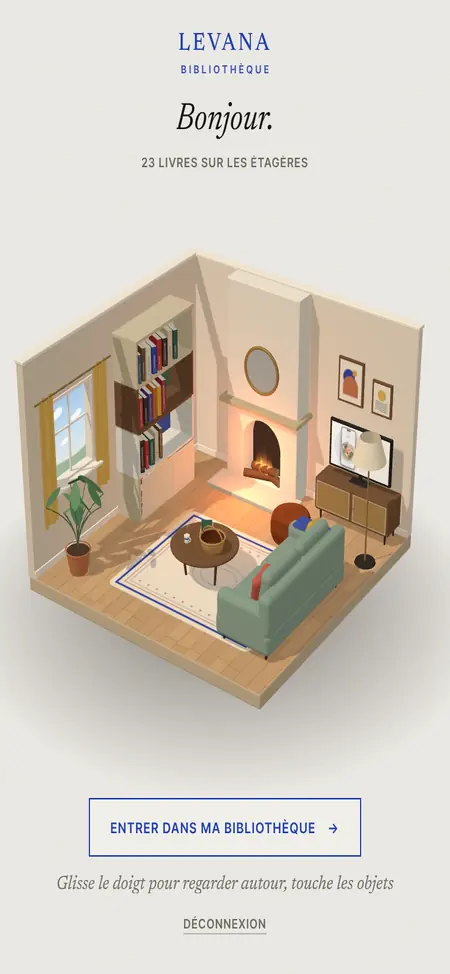
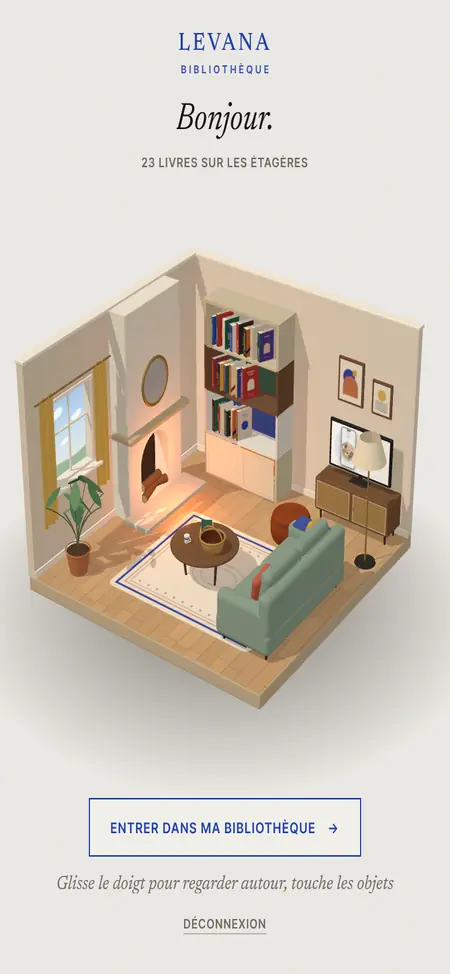
Glisser-déposer précis, livres plus nets, salon immobile pendant la caméra
- Le livre se pose exactement où on le lâche (avant, depuis « une étagère =
  une rangée », il partait toujours en tête de l'étagère).
- Netteté : couvertures Google en grand format (600 × 900, la vignette en
  secours), tranches dessinées avec 1,5 × plus de pixels, filtrage 16×
  pour les livres vus de biais, dessin en 3× sur les écrans 3× ; la
  qualité ne baisse plus dès l'arrivée, d'abord les ombres, jamais sous 1,5×.
- Salon : plus rien ne s'efface ni ne change de lumière pendant le zoom ou
  le dézoom ; la bibliothèque passe sur le mur du fond (rien devant sur le
  trajet de la caméra), la cheminée sur le mur de gauche ; un fondu court
  enchaîne à la fin. Au retour, la bibliothèque remonte d'abord en haut.
- Tuto de la télé refait avec ce salon.

Claude-Session: https://claude.ai/code/session_01Tg9JuQWn64WBjX1JtYF8aa

Changed region(s): [[0.2178, 0.2772, 0.7156, 0.5852]]

diff --git a/src/three/LivingRoomScene.js b/src/three/LivingRoomScene.js
@@ -25,8 +25,8 @@ const EL_MIN = 0.3, EL_MAX = 0.78, EL0 = 0.5
 const TARGET0 = new THREE.Vector3(0, 0.95, 0)
 
 // emplacements (repère de la pièce)
-const BOOKCASE = { x: -R + 0.2, z: -0.55, w: 1.62, h: 2.18, d: 0.38 }
-const FIRE = { x: -0.5, w: 1.3, d: 0.3 }
+const BOOKCASE = { x: -1.05, z: -R + 0.2, w: 1.62, h: 2.18, d: 0.38 }   // mur du fond, à gauche (face à la caméra)
+const FIRE = { z: -0.5, w: 1.3, d: 0.3 }                               // mur de gauche
 const TV = { x: 1.22 }
 const SOFA = { x: 1.34, z: 0.5 }
 const TABLE = { x: -0.02, z: 0.48 }
@@ -449,8 +449,7 @@ export class LivingRoomScene {
   // ---- Bibliothèque ----------------------------------------------------------------------
   _buildBookcase() {
     const grp = new THREE.Group()
-    grp.position.set(BOOKCASE.x, 0, BOOKCASE.z)
-    grp.rotation.y = Math.PI / 2      // face à la pièce (+x)
+    grp.position.set(BOOKCASE.x, 0, BOOKCASE.z)   // face à la pièce (+z)
     this.room.add(grp)
     this.bookcase = grp
     this.bookcaseInner = new THREE.Group()
@@ -593,7 +592,8 @@ export class LivingRoomScene {
   // ---- Cheminée ---------------------------------------------------------------------------
   _buildFireplace() {
     const grp = new THREE.Group()
-    grp.position.set(FIRE.x, 0, -R)
+    grp.position.set(-R, 0, FIRE.z)
+    grp.rotation.y = Math.PI / 2       // contre le mur de gauche, face à la pièce (+x)
     this.room.add(grp)
     const W = FIRE.w, D = FIRE.d
     const aw = 0.74, ah = 0.5, ay = 0.1, ar = aw / 2
@@ -650,7 +650,7 @@ export class LivingRoomScene {
     })
     // lueur du feu
     this.fireLight = new THREE.PointLight(0xff8a3c, 2, 5.5, 1.6)
-    this.fireLight.position.set(FIRE.x, 0.55, -R + D + 0.45)
+    this.fireLight.position.set(-R + D + 0.45, 0.55, FIRE.z)
     this.scene.add(this.fireLight)
     // déco de la tablette : miroir rond, bougies, petit vase
     const mirror = new THREE.Mesh(this._geo(new THREE.CircleGeometry(0.3, 48)), this._mat('#C9D3D8', { roughness: 0.15, metalness: 0.3 }))
@@ -1263,10 +1263,10 @@ export class LivingRoomScene {
     const { CW } = lib.layout
     const totalH = lib.rowCount * (RH + PT) + PT
     const sc = Math.min(2.45 / (totalH + 0.1), 2.1 / (CW + 2 * ST + 0.06))
-    const hw = (CW / 2 + ST + 0.04) * sc
+    const hw = (CW / 2 + ST + 0.04) * sc     // demi-largeur (sur x)
     const g = new THREE.Group()
-    g.position.set(-R + 0.012 + (SD / 2 + 0.02) * sc, 0, clamp(-0.6, -1.92 + hw, 0.32 - hw))
-    g.rotation.y = Math.PI / 2
+    // contre le mur du fond, entre le coin gauche et le meuble télé
+    g.position.set(clamp(-0.8, -1.92 + hw, 0.45 - hw), 0, -R + 0.012 + (SD / 2 + 0.02) * sc)
     g.scale.setScalar(sc)
     g.add(copy)
     this.room.add(g)
@@ -1453,10 +1453,6 @@ export class LivingRoomScene {
     // on part de la vue exacte où l'on était dans la bibliothèque…
     this.fly = { dir: 'out', start: { az: AZ0, el: EL0, dist: this.dist, target: TARGET0.clone() }, t: 0, dur: 1.6, libPose: this._libraryPose() }
     this._stepFly(0)
-    // …puis la bibliothèque remonte en haut : dans le salon, les étagères du haut s'ouvrent,
-    // celles du bas se ferment (c'est par le haut qu'on entrera la prochaine fois)
-    lib.setZoom(true)
-    lib.scrollToTop()
   }
 
   /** La bibliothèque se présente toujours par le haut, vue de près. */
@@ -1487,9 +1483,6 @@ export class LivingRoomScene {
     const a = this._salonPose(f.start.az, f.start.el, f.start.dist, f.start.target)
     const b = f.libPose || this._libraryPose()
     this._applyPose(a, b, ease(p))
-    this._setFade(sstep(0.06, 0.55, p))
-    this.mix = sstep(0.2, 0.8, p)
-    this._setClip(sstep(0.62, 1, p), b.R, b.S)
     this.shadowDirty = Math.max(this.shadowDirty, 1)
     if (k >= 1) {
       if (f.dir === 'in') { if (!f.called) { f.called = true; f.onDone?.() } return }
@@ -1497,15 +1490,18 @@ export class LivingRoomScene {
       this.fly = null
       this.az.snap(AZ0); this.el.snap(EL0); this.target.copy(TARGET0)
       this.camera.updateProjectionMatrix()
-      this._setFade(0); this.mix = 0; this._setClip(0)
       this.idleAt = this.time
+      // la caméra est arrêtée : la bibliothèque remonte en haut (les étagères du haut s'ouvrent,
+      // celles du bas se ferment : c'est par le haut qu'on entrera la prochaine fois)
+      const lib = this.mirror?.lib
+      if (lib && !lib.disposed) { lib.setZoom(true); lib.scrollToTop() }
     }
   }
 
   /** Vue rapprochée (secours, quand la bibliothèque n'est pas encore là). */
   _bookcaseView() {
-    const center = new THREE.Vector3(BOOKCASE.x + BOOKCASE.d / 2, 1.12, BOOKCASE.z)
-    return { target: center, az: Math.PI / 2, el: 0.05, dist: 2.3 }
+    const center = new THREE.Vector3(BOOKCASE.x, 1.12, BOOKCASE.z + BOOKCASE.d / 2)
+    return { target: center, az: 0.2, el: 0.05, dist: 2.3 }
   }
 
   _applyFly(k) {

diff --git a/src/three/BookcaseScene.js b/src/three/BookcaseScene.js
@@ -71,12 +71,14 @@ export class BookcaseScene {
     this.cb = cb
     this.container = container
     this.renderer = new THREE.WebGLRenderer({ antialias: true, alpha: true, powerPreference: 'high-performance' })
-    this.renderer.setPixelRatio(Math.min(window.devicePixelRatio || 1, 2))
+    // écrans 3× (iPhone) : dessin en 3× ; la qualité ne baisse que si le téléphone peine vraiment
+    this.dpr = Math.min(window.devicePixelRatio || 1, 3)
+    this.renderer.setPixelRatio(this.dpr)
     this.renderer.outputColorSpace = THREE.SRGBColorSpace
     this.renderer.shadowMap.enabled = true
     this.renderer.shadowMap.type = THREE.PCFSoftShadowMap
     this.renderer.localClippingEnabled = true
-    setAnisotropy(Math.min(8, this.renderer.capabilities.getMaxAnisotropy()))
+    setAnisotropy(Math.min(16, this.renderer.capabilities.getMaxAnisotropy()))   // livres vus de biais : nets
     container.appendChild(this.renderer.domElement)
     noTouchSelect(this.renderer.domElement)
     this.renderer.domElement.className = 'shelf-canvas'
@@ -1105,26 +1107,31 @@ export class BookcaseScene {
    * on réduit d'abord la résolution, puis on simplifie les ombres.
    */
   _adapt(dt) {
-    if (dt <= 0 || dt > 0.25) return
-    this.perf = this.perf || { sum: 0, n: 0, level: 0 }
+    if (dt <= 0 || dt > 0.25) return false
+    this.perf = this.perf || { sum: 0, n: 0, level: 0, seen: 0 }
     const pf = this.perf
+    // on laisse passer l'arrivée (les livres qui se posent) avant de juger
+    if (++pf.seen < 90) return false
     pf.sum += dt; pf.n++
-    if (pf.n < 24) return
+    if (pf.n < 40) return false
     const avg = pf.sum / pf.n
     pf.sum = 0; pf.n = 0
-    if (avg > 0.034 && pf.level === 0) {
+    if (avg <= 0.045) return false
+    if (pf.level === 0) {
+      // d'abord des ombres plus simples (le flou se voit plus que les ombres)
       pf.level = 1
-      this.renderer.setPixelRatio(1)
-      this.renderer.setSize(this.w, this.h, false)
-      return true      // le canevas vient d'être vidé : il faut le redessiner
-    } else if (avg > 0.034 && pf.level === 1) {
-      pf.level = 2
       this.renderer.shadowMap.type = THREE.PCFShadowMap
       this.key.shadow.mapSize.set(1024, 1024)
       this.key.shadow.map?.dispose(); this.key.shadow.map = null
       return true
     }
-    return false
+    // puis la définition, par paliers, sans descendre sous 1,5×
+    const next = this.dpr > 2 ? 2 : this.dpr > 1.5 ? 1.5 : null
+    if (!next) return false
+    this.dpr = next
+    this.renderer.setPixelRatio(next)
+    this.renderer.setSize(this.w, this.h, false)
+    return true      // le canevas vient d'être vidé : il faut le redessiner
   }
 
   /** Étiquettes des planches : positionnées directement (sans repasser par React). */

diff --git a/src/App.jsx b/src/App.jsx
@@ -192,6 +192,19 @@ function Library({ user, onSignOut }) {
   // panier vidé : on referme la rangée
   useEffect(() => { if (!basket.items.length) setGuide(false) }, [basket.items.length])
 
+  // Retour au salon : la bibliothèque remonte d'abord en haut (dans la bibliothèque), puis la
+  // caméra sort par là — rien ne passe devant pendant le trajet
+  const goSalon = useCallback(() => {
+    const sc = bookcaseApi.current?.scene?.()
+    if (!sc?.scroll) { setSalon('back'); return }
+    const atTop = () => Math.abs(sc.scroll.v - sc._clampScroll(Infinity)) < 0.01 && sc.zoom.v > 0.99 && sc.scroll.done && sc.zoom.done
+    if (atTop()) { setSalon('back'); return }
+    sc.setZoom(true); sc.scrollToTop()
+    const t0 = performance.now()
+    const wait = () => (atTop() || performance.now() - t0 > 1400 ? setTimeout(() => setSalon('back'), 120) : requestAnimationFrame(wait))
+    requestAnimationFrame(wait)
+  }, [])
+
   const openGuide = useCallback(() => {
     if (salon) { markSalonSeen(); setSalon(null) }
     setGuide(true)
@@ -233,7 +246,7 @@ function Library({ user, onSignOut }) {
         <Logo />
         <div className="top-right">
           {HAS_WEBGL && (
-            <button type="button" className="lbl box salon-btn" onClick={e => { e.currentTarget.blur(); setSalon('back') }} aria-label="Retour au salon">
+            <button type="button" className="lbl box salon-btn" onClick={e => { e.currentTarget.blur(); goSalon() }} aria-label="Retour au salon">
               <svg width="13" height="12" viewBox="0 0 13 12" aria-hidden="true"><path d="M1 6L6.5 1.2 12 6M2.6 4.8V11h7.8V4.8" stroke="currentColor" fill="none" strokeWidth="1.1" /></svg>
               <span className="salon-btn-l">Salon</span>
             </button>
@@ -301,7 +314,7 @@ function Library({ user, onSignOut }) {
           {findOpen && <div className="find-backdrop" onPointerDown={() => setFindOpen(false)} />}
           <nav className="tabbar" aria-label="Menu">
             {HAS_WEBGL && (
-              <button type="button" className="tab" onClick={() => { setFindOpen(false); setGuide(false); setSalon('back') }}>
+              <button type="button" className="tab" onClick={() => { setFindOpen(false); setGuide(false); goSalon() }}>
                 <svg viewBox="0 0 24 24" aria-hidden="true"><path d="M3.5 11.2L12 4l8.5 7.2M6 9.8V20h12V9.8M10 20v-5.5h4V20" /></svg>
                 <span>Salon</span>
               </button>

diff --git a/src/three/textures.js b/src/three/textures.js
@@ -11,11 +11,13 @@ const cache = new Map()
 let anisotropy = 4
 export function setAnisotropy(n) { anisotropy = n }
 
-function canvasTexture(key, w, h, draw, { repeat = false } = {}) {
+function canvasTexture(key, w, h, draw, { repeat = false, scale = 1 } = {}) {
   if (cache.has(key)) return cache.get(key)
   const c = document.createElement('canvas')
-  c.width = w; c.height = h
-  draw(c.getContext('2d'), w, h)
+  c.width = Math.round(w * scale); c.height = Math.round(h * scale)
+  const ctx = c.getContext('2d')
+  ctx.scale(scale, scale)     // même dessin, plus de pixels (texte des tranches plus net)
+  draw(ctx, w, h)
   const tex = new THREE.CanvasTexture(c)
   tex.colorSpace = THREE.SRGBColorSpace
   tex.anisotropy = anisotropy
@@ -67,7 +69,7 @@ export function spineTexture(book) {
     ctx.strokeRect(w / 2 - 34, h - 160, 68, 56)
     ctx.fillStyle = ink; ctx.font = `italic 500 36px ${SERIF}`; ctx.textAlign = 'center'; ctx.textBaseline = 'middle'
     ctx.fillText(authorInitials(book), w / 2, h - 131)
-  })
+  }, { scale: 1.5 })   // 1,5 × plus de pixels : titre de la tranche net
 }
 
 /** Couverture générée quand l'image réelle n'est pas disponible. */

diff --git a/src/components/LivingRoom.jsx b/src/components/LivingRoom.jsx
@@ -52,7 +52,7 @@ export default function LivingRoom({ books, shelves, basketItems, from, onEntere
       const done = () => cb.current.onEntered?.(typeof next === 'string' ? next : null)
       if (!el?.animate) { done(); return }
       // les deux vues sont identiques : on retire simplement le salon (les menus apparaissent)
-      el.animate([{ opacity: 1 }, { opacity: 0 }], { duration: 220, easing: 'ease-out', fill: 'forwards' }).finished.then(done, done)
+      el.animate([{ opacity: 1 }, { opacity: 0 }], { duration: 380, easing: 'ease-in-out', fill: 'forwards' }).finished.then(done, done)
     })
   }
   cb.current.go = go
@@ -88,7 +88,7 @@ export default function LivingRoom({ books, shelves, basketItems, from, onEntere
     let t
     if (from === 'back') {
       s.arriveFromLibrary()
-      rootRef.current?.animate?.([{ opacity: 0 }, { opacity: 1 }], { duration: 160, easing: 'ease-out' })
+      rootRef.current?.animate?.([{ opacity: 0 }, { opacity: 1 }], { duration: 300, easing: 'ease-in-out' })
       t = setTimeout(() => setGoing(false), 1100)
     }
     return () => { clearTimeout(t); s.dispose(); sceneRef.current = null }

diff --git a/src/lib/covers.js b/src/lib/covers.js
@@ -8,6 +8,16 @@ const rawCover = b => (b?.cover_url || b?.cover || '').replace('http://', 'https
 
 export const relayUrl = src => `/api/cover?url=${encodeURIComponent(src)}`
 
+/**
+ * Version grand format d'une couverture Google Books (les vignettes « zoom=1 » ne font que
+ * ~128 px de large : floues en 3D). Si Google l'ignore, on retombe sur la vignette.
+ */
+export function hiResCover(src) {
+  if (!src || !/books\.google(usercontent)?\.com/.test(src) || /[?&]fife=/.test(src)) return null
+  if (!/\/books\/content|\/books\/publisher/.test(src)) return null
+  return src + (src.includes('?') ? '&' : '?') + 'fife=w600-h900'
+}
+
 export function coverKey(b) {
   const raw = rawCover(b)
   if (raw) return raw
@@ -17,6 +27,8 @@ export function coverKey(b) {
 export function coverCandidates(b) {
   const raw = rawCover(b)
   const out = []
+  const hi = hiResCover(raw)
+  if (hi) out.push(relayUrl(hi))
   if (raw) out.push(relayUrl(raw), raw)
   if (b?.isbn) out.push(`https://covers.openlibrary.org/b/isbn/${b.isbn}-M.jpg?default=false`)
   return out

diff --git a/src/components/Bookcase3D.jsx b/src/components/Bookcase3D.jsx
@@ -30,7 +30,8 @@ function buildRows({ manual, shelves, autoBooks, byId, visible, canEdit, perRow,
       }
       if (!list.length && !canEdit) continue
       const n = Math.max(1, Math.ceil(list.length / perRow))
-      for (let j = 0; j < n; j++) rows.push({ key: `${s.id}:${j}`, shelf: s, start: j * perRow, books: list.slice(j * perRow, (j + 1) * perRow), cont: j > 0 })
+      // (j * Infinity vaut NaN pour j = 0 : une étagère d'une seule rangée commence à 0)
+      for (let j = 0; j < n; j++) rows.push({ key: `${s.id}:${j}`, shelf: s, start: j ? j * perRow : 0, books: n === 1 ? list : list.slice(j * perRow, (j + 1) * perRow), cont: j > 0 })
     }
   } else {
     const n = Math.ceil(autoBooks.length / perRow)
